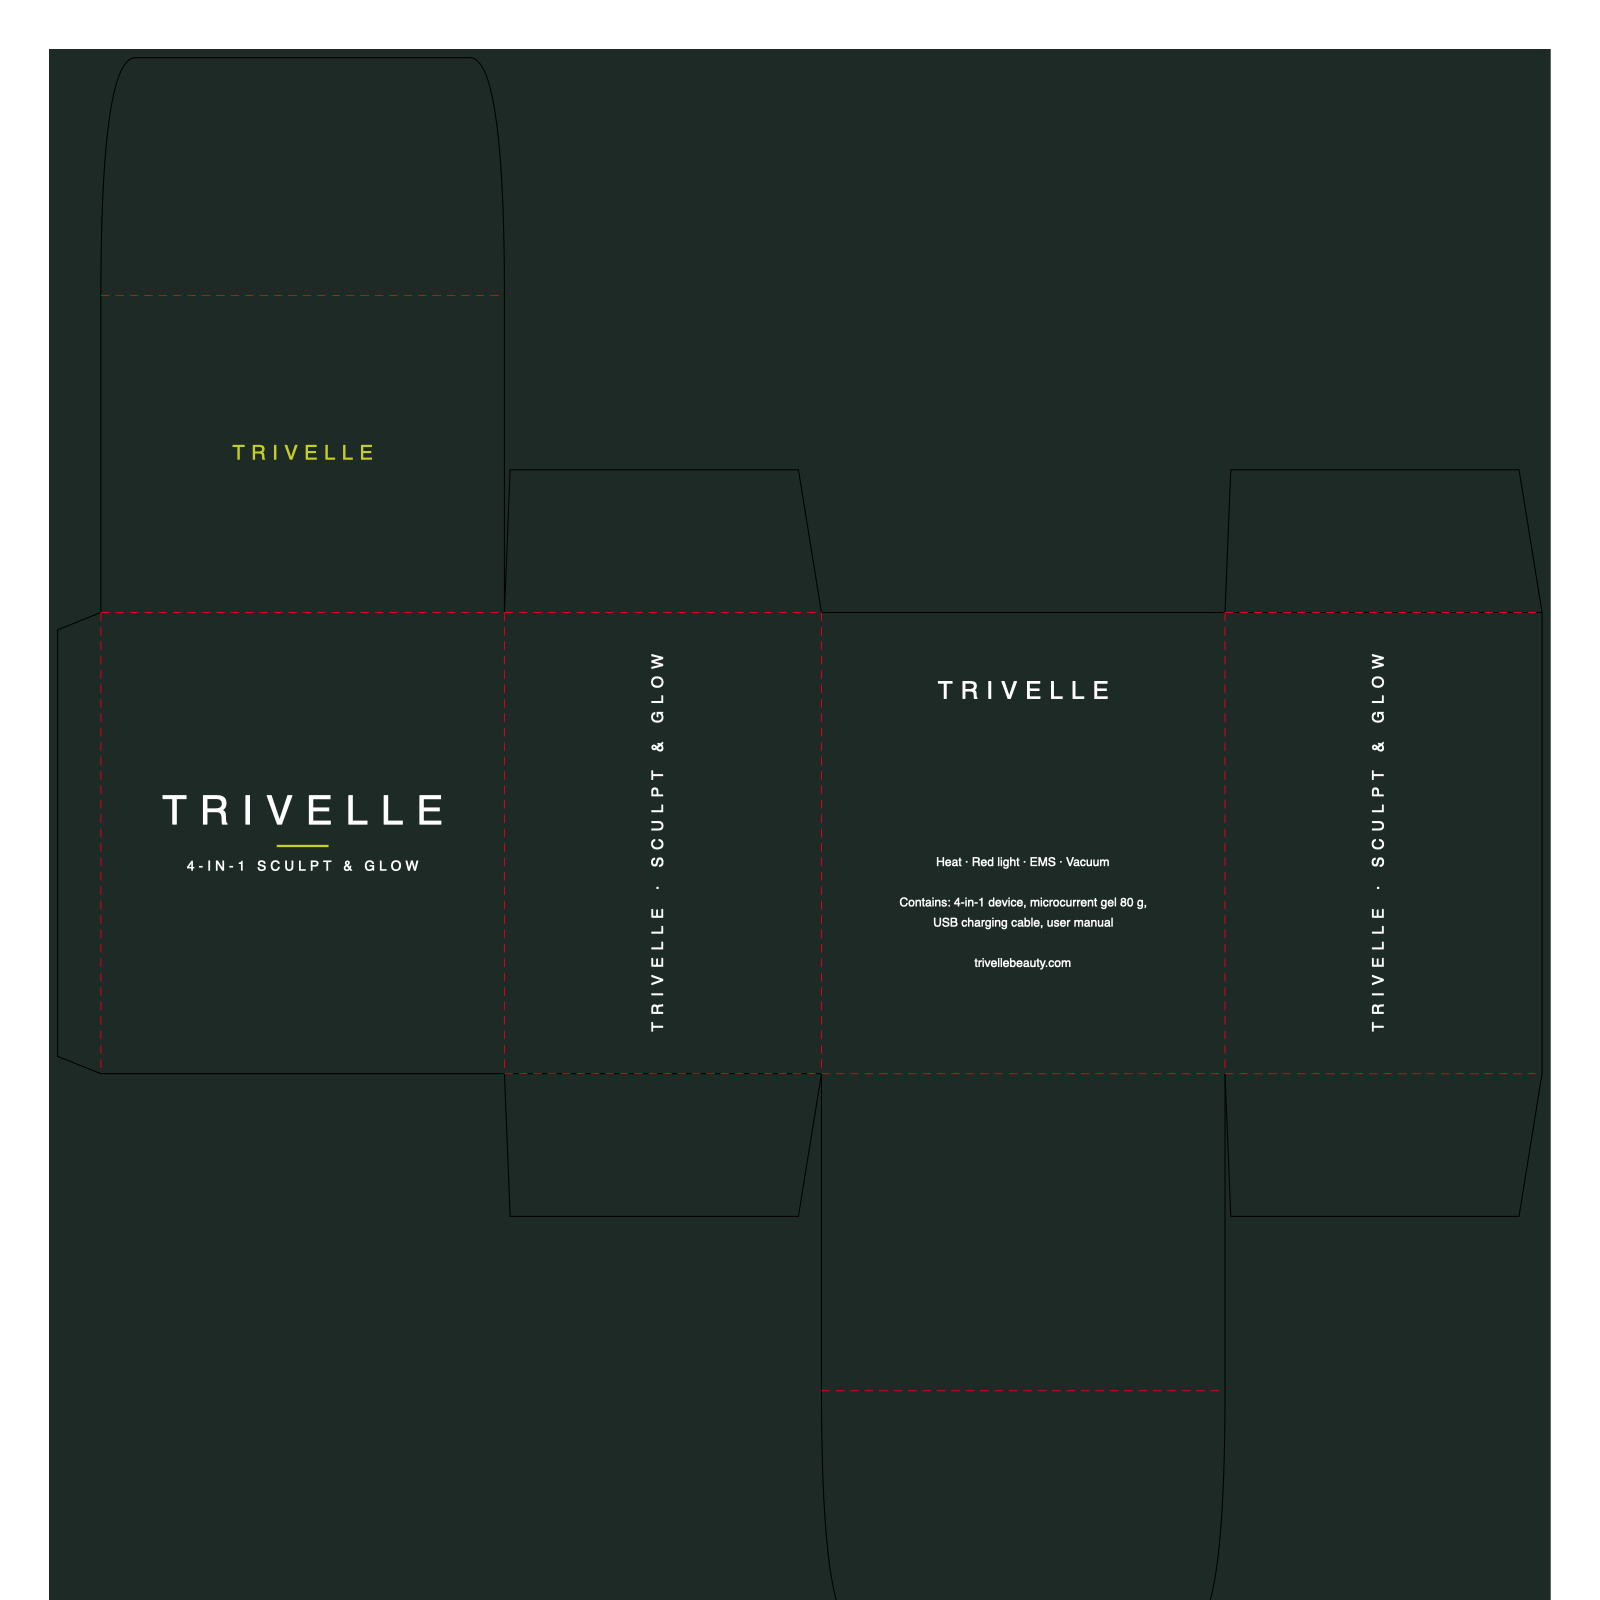
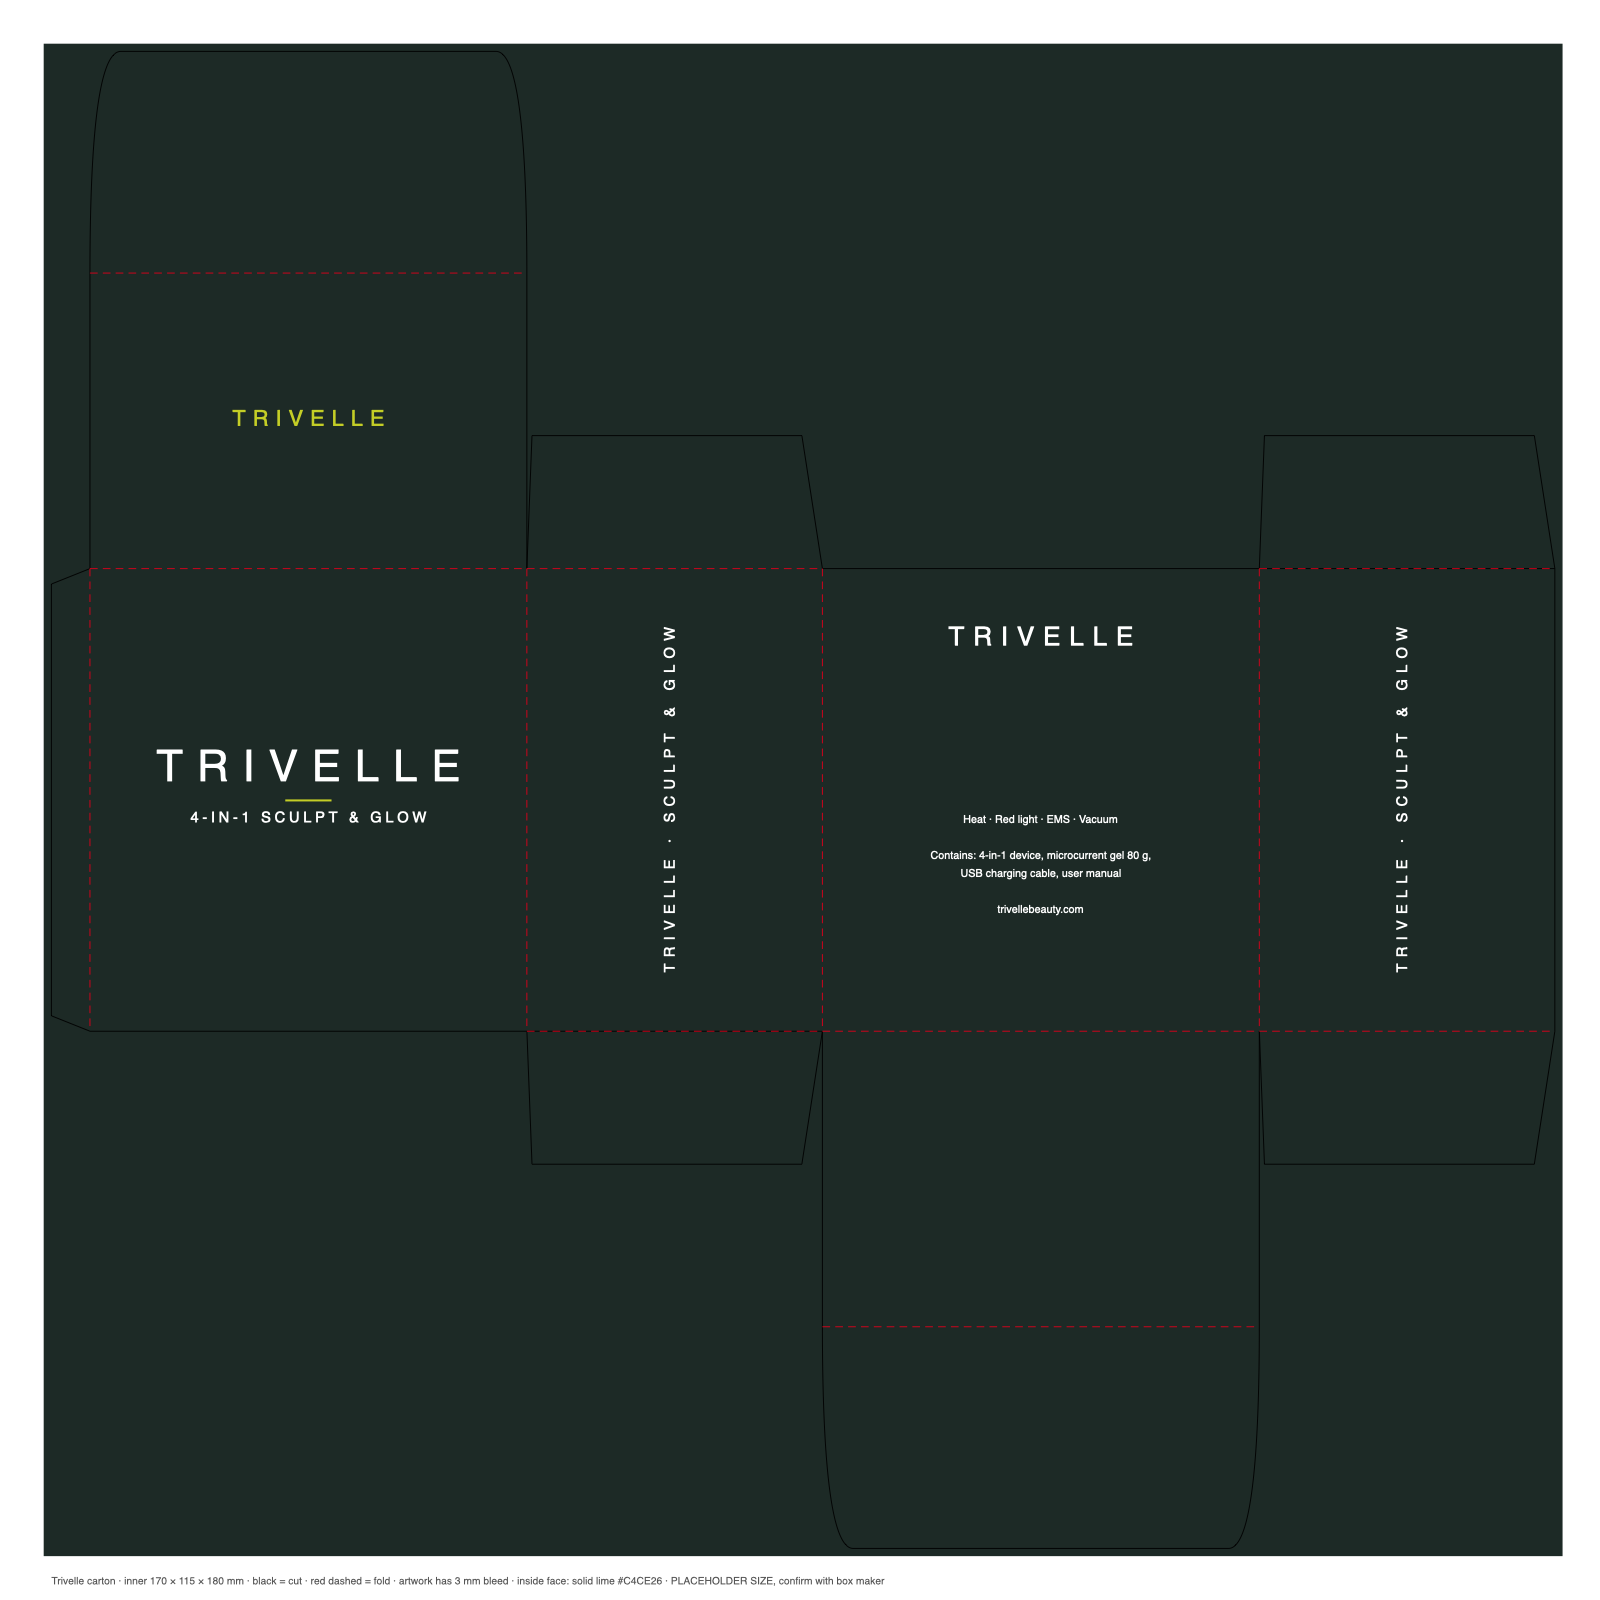
Trivelle box: resize to 170x115x180 so device + gel fit side by side

diff --git a/projects/trivelle-beauty/scripts/box_dieline.py b/projects/trivelle-beauty/scripts/box_dieline.py
@@ -1,12 +1,12 @@
 """Trivelle fold-up box: reverse-tuck-end carton dieline + print artwork (SVG, mm units).
-Usage: python3 box_dieline.py [L W H]  — inner size in mm (default 140 x 110 x 160, a placeholder:
+Usage: python3 box_dieline.py [L W H]  — inner size in mm (default 170 x 115 x 180, a placeholder:
 get the real device + gel + insert size from the supplier / box maker before printing).
 Lines: black = cut, red dashed = fold, cyan = 3 mm bleed. Outside face shown; inside is solid lime.
 """
 import sys, os
 R = os.path.dirname(os.path.dirname(os.path.abspath(__file__)))
 OUT = f"{R}/packaging"; os.makedirs(OUT, exist_ok=True)
-L, W, H = (float(x) for x in sys.argv[1:4]) if len(sys.argv) == 4 else (140.0, 110.0, 160.0)
+L, W, H = (float(x) for x in sys.argv[1:4]) if len(sys.argv) == 4 else (170.0, 115.0, 180.0)
 GREEN, LIME, WHITE = "#1D2A26", "#C4CE26", "#FFFFFF"
 G = 15.0           # glue flap width
 T = W * 0.75       # tuck flap depth
